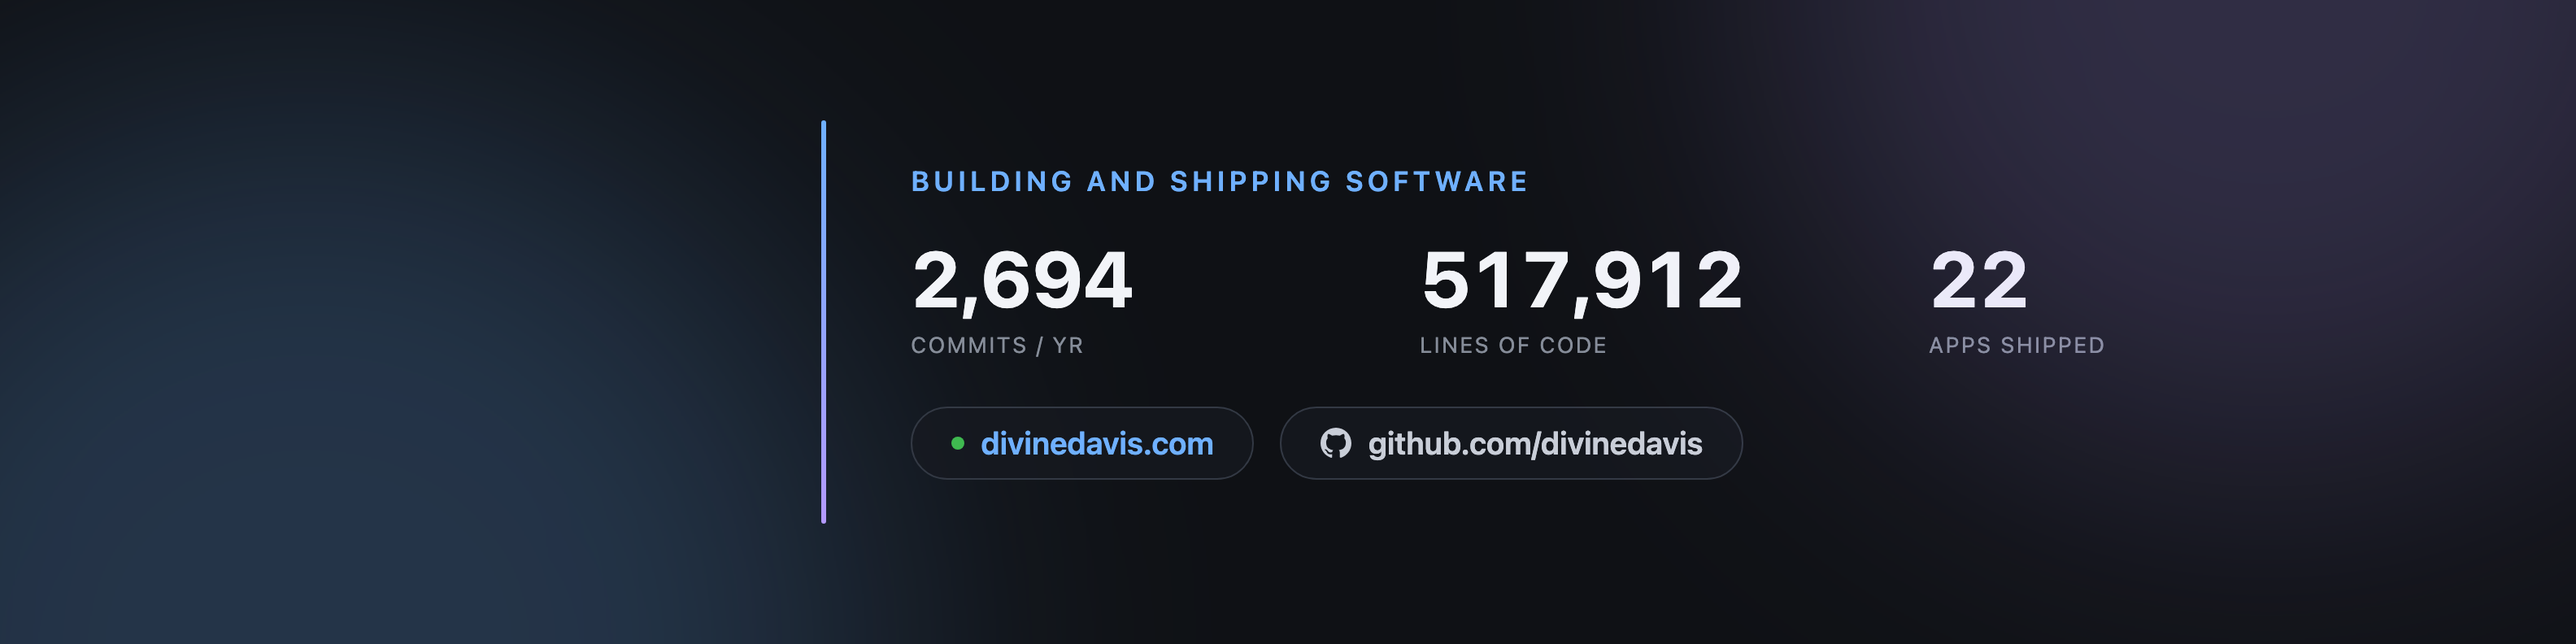
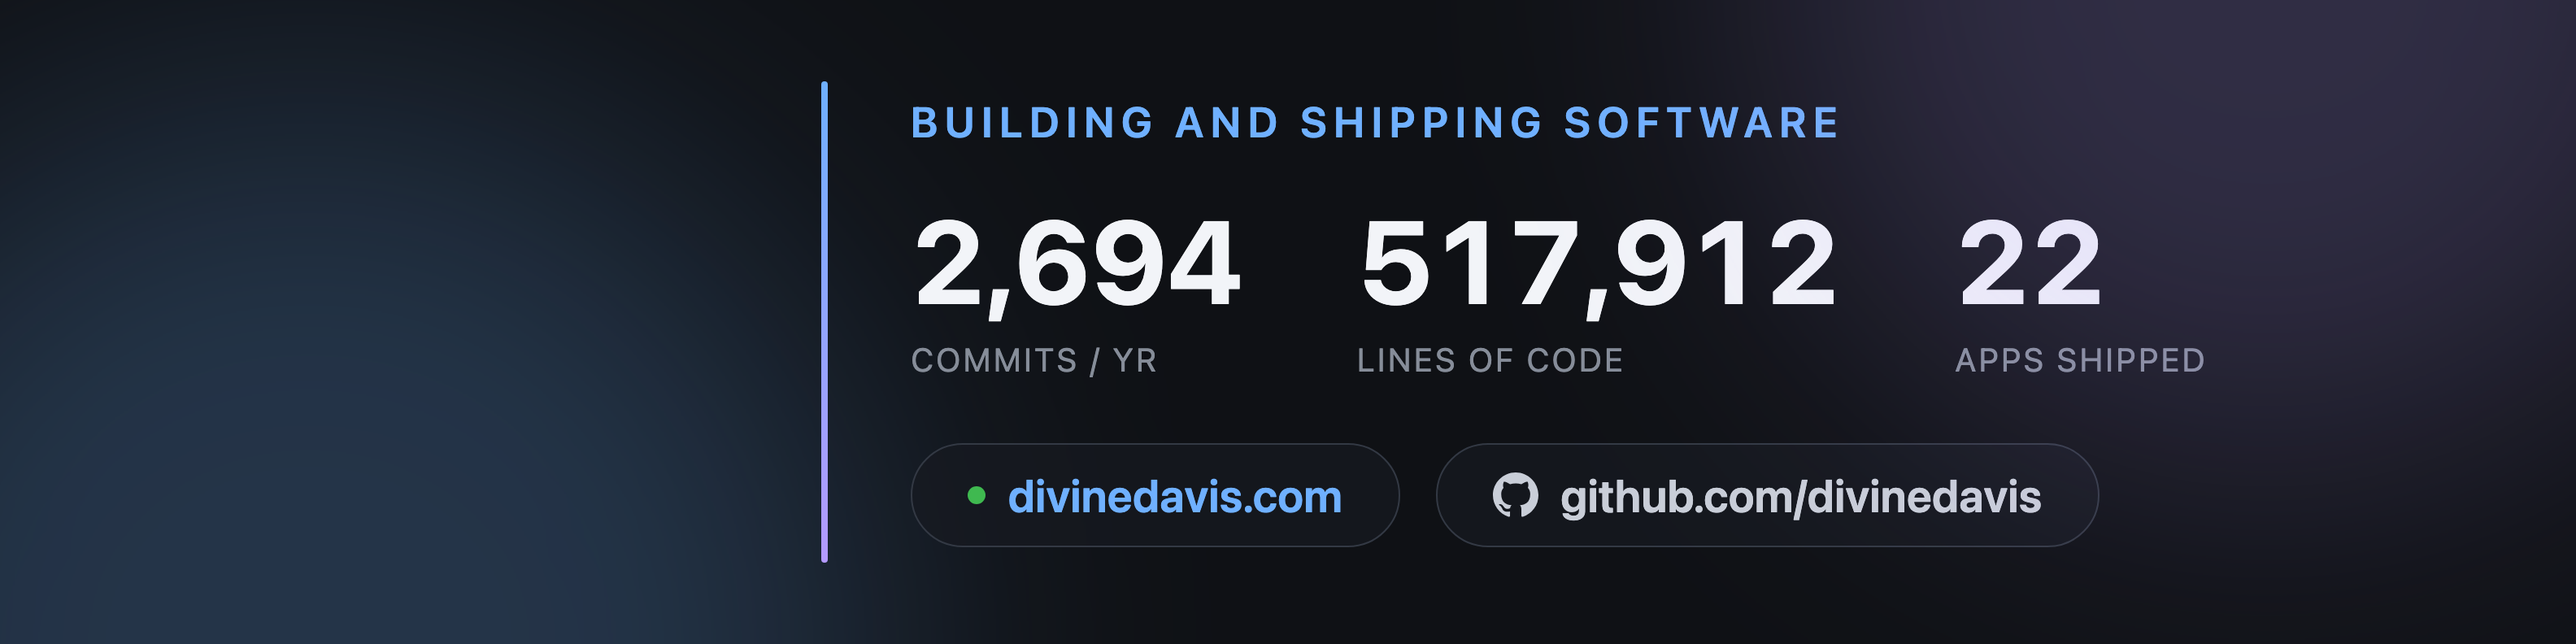
Scale the LinkedIn art 1.5x for how it actually renders
Both images were sized for how they look as files, which is not the size
anyone sees them at. The profile lays a 1584px banner into ~1138px of column,
so it displays at ~72% and a 13.5px label landed under 10px on screen. The
Featured panel is worse: ~500px wide for a 1200px export, about 42%.

So every type size in both templates is 1.5x, chosen against the rendered
profile rather than the PNG.

Fixed columns had to go. They were the earlier fix for "517,912" and "22"
reading as one run-on string, but that number alone is ~300px at 72px and
three columns that wide overrun the space the headshot leaves on the banner.
A shared gutter separates the numbers just as well and costs no width.

The thumbnail band grew 860 -> 1110 to hold the larger type. Width is no
longer the thing being protected there — the verified desktop crop takes the
full width and only trims height — and the content still lands inside the
~240px centre band that crop keeps.

XCUITest review: N/A, no iOS surface.
OWASP LLM review: N/A, no model call in this change.
Secrets review: no credentials; both PNGs show only figures the site already
publishes.

diff --git a/tools/thumbnail.html b/tools/thumbnail.html
@@ -63,28 +63,34 @@
         background: rgba(180, 154, 255, 0.18);
     }
 
+    /* Sized to the type, not to a crop-safe guess. The desktop Featured panel
+       is only ~500px wide, so a 1200px-wide export is displayed at about 42% —
+       type that looks generous in the file renders tiny on the profile. Every
+       size here is 1.5x what it was for that reason, and the band grew to
+       1150px to hold it. Width is no longer the thing being protected: the
+       verified desktop crop takes the full width and only trims height. */
     .band {
         position: relative;
-        width: 860px;
+        width: 1110px;
     }
 
     .row {
         display: flex;
         align-items: center;
         justify-content: space-between;
-        gap: 22px;
+        gap: 24px;
     }
 
     .name {
-        font-size: 42px;
+        font-size: 63px;
         font-weight: 700;
         line-height: 1.1;
         white-space: nowrap;
     }
 
     .role {
-        margin-top: 6px;
-        font-size: 18px;
+        margin-top: 9px;
+        font-size: 27px;
         color: #a8aeba;
         white-space: nowrap;
     }
@@ -94,36 +100,34 @@
        better job for it anyway. */
     .divider {
         flex: none;
-        width: 3px;
-        height: 76px;
+        width: 4px;
+        height: 112px;
         border-radius: 2px;
         background: linear-gradient(180deg, #6fb0ff 0%, #b49aff 100%);
     }
 
-    .stats { display: flex; }
-
-    /* Equal-width columns rather than equal gaps. "517,912" is three times the
-       width of "22", so a gap-based row centres by arithmetic but reads as
-       left-heavy; fixed columns put the three labels on an even rhythm.
-
-       The width is set by the longest value, not the longest label: at 36px
-       "517,912" is ~150px, and a narrower column let it run to its own edges so
-       the three numbers read as one run-on string. */
-    .stats > div {
-        width: 172px;
-        text-align: center;
+    /* Columns size to their own content with a fixed gutter between them, which
+       is what keeps the numbers apart. Equal fixed widths were the earlier fix
+       for "517,912" and "22" reading as one run-on string, but at 54px that
+       number is ~225px and three columns that wide no longer fit beside the
+       name. A shared gutter separates them just as well and costs no width. */
+    .stats {
+        display: flex;
+        gap: 32px;
     }
 
+    .stats > div { text-align: center; }
+
     .stat-value {
-        font-size: 36px;
+        font-size: 54px;
         font-weight: 700;
         font-variant-numeric: tabular-nums;
         line-height: 1;
     }
 
     .stat-label {
-        margin-top: 7px;
-        font-size: 12.5px;
+        margin-top: 11px;
+        font-size: 19px;
         font-weight: 400;
         letter-spacing: 0.09em;
         text-transform: uppercase;
@@ -134,21 +138,21 @@
        the receipt for the numbers above it — a stats card that cites nothing is
        just a claim. */
     .links {
-        margin-top: 26px;
+        margin-top: 34px;
         display: flex;
         justify-content: center;
-        gap: 16px;
+        gap: 22px;
     }
 
     .pill {
         display: inline-flex;
         align-items: center;
-        gap: 10px;
-        padding: 12px 24px;
+        gap: 14px;
+        padding: 17px 34px;
         border: 1px solid #333944;
         border-radius: 999px;
         background: rgba(23, 26, 33, 0.7);
-        font-size: 19px;
+        font-size: 28px;
         font-weight: 600;
         line-height: 1;
     }
@@ -157,15 +161,15 @@
     .pill-gh   { color: #c9ced8; }
 
     .pill .dot {
-        width: 8px;
-        height: 8px;
+        width: 11px;
+        height: 11px;
         border-radius: 50%;
         background: #3fb950;
     }
 
     .pill svg {
-        width: 19px;
-        height: 19px;
+        width: 28px;
+        height: 28px;
         fill: #c9ced8;
     }
 </style>

diff --git a/tools/banner.html b/tools/banner.html
@@ -59,9 +59,9 @@
     .rule {
         position: absolute;
         left: 505px;
-        top: 74px;
-        bottom: 74px;
-        width: 3px;
+        top: 50px;
+        bottom: 50px;
+        width: 4px;
         border-radius: 2px;
         background: linear-gradient(180deg, #6fb0ff 0%, #b49aff 100%);
     }
@@ -69,40 +69,43 @@
     .content {
         position: absolute;
         left: 560px;
-        right: 84px;
+        right: 60px;
         top: 50%;
         transform: translateY(-50%);
     }
 
+    /* Every size below is 1.5x its first version. The profile renders a
+       1584px-wide banner into about 1138px of layout, so the file is displayed
+       at ~72% — a 13.5px label landed under 10px on screen and was genuinely
+       hard to read. Sizes here are chosen for how they look on the profile, not
+       for how they look in the PNG. */
     .kicker {
-        font-size: 17px;
+        font-size: 26px;
         font-weight: 600;
         letter-spacing: 0.16em;
         text-transform: uppercase;
         color: #6fb0ff;
     }
 
+    /* Content-width columns with a shared gutter. Fixed 313px columns fitted the
+       old type but not this: "517,912" alone is ~300px at 72px, and three
+       columns that wide overrun the space the headshot leaves. */
     .stats {
-        margin-top: 26px;
+        margin-top: 34px;
         display: flex;
+        gap: 70px;
     }
 
-    /* Sized to fill the space the headshot leaves rather than to fit the text.
-       At 230px the three stats bunched against the rule and left the right
-       third of a 1584px banner empty, which reads as a rendering fault rather
-       than as breathing room. */
-    .stats > div { width: 313px; }
-
     .stat-value {
-        font-size: 48px;
+        font-size: 72px;
         font-weight: 700;
         font-variant-numeric: tabular-nums;
         line-height: 1;
     }
 
     .stat-label {
-        margin-top: 9px;
-        font-size: 13.5px;
+        margin-top: 13px;
+        font-size: 20px;
         font-weight: 400;
         letter-spacing: 0.09em;
         text-transform: uppercase;
@@ -110,20 +113,20 @@
     }
 
     .links {
-        margin-top: 30px;
+        margin-top: 40px;
         display: flex;
-        gap: 16px;
+        gap: 22px;
     }
 
     .pill {
         display: inline-flex;
         align-items: center;
-        gap: 10px;
-        padding: 12px 24px;
+        gap: 14px;
+        padding: 17px 34px;
         border: 1px solid #333944;
         border-radius: 999px;
         background: rgba(23, 26, 33, 0.7);
-        font-size: 19px;
+        font-size: 28px;
         font-weight: 600;
         line-height: 1;
     }
@@ -132,15 +135,15 @@
     .pill-gh   { color: #c9ced8; }
 
     .pill .dot {
-        width: 8px;
-        height: 8px;
+        width: 11px;
+        height: 11px;
         border-radius: 50%;
         background: #3fb950;
     }
 
     .pill svg {
-        width: 19px;
-        height: 19px;
+        width: 28px;
+        height: 28px;
         fill: #c9ced8;
     }
 </style>
